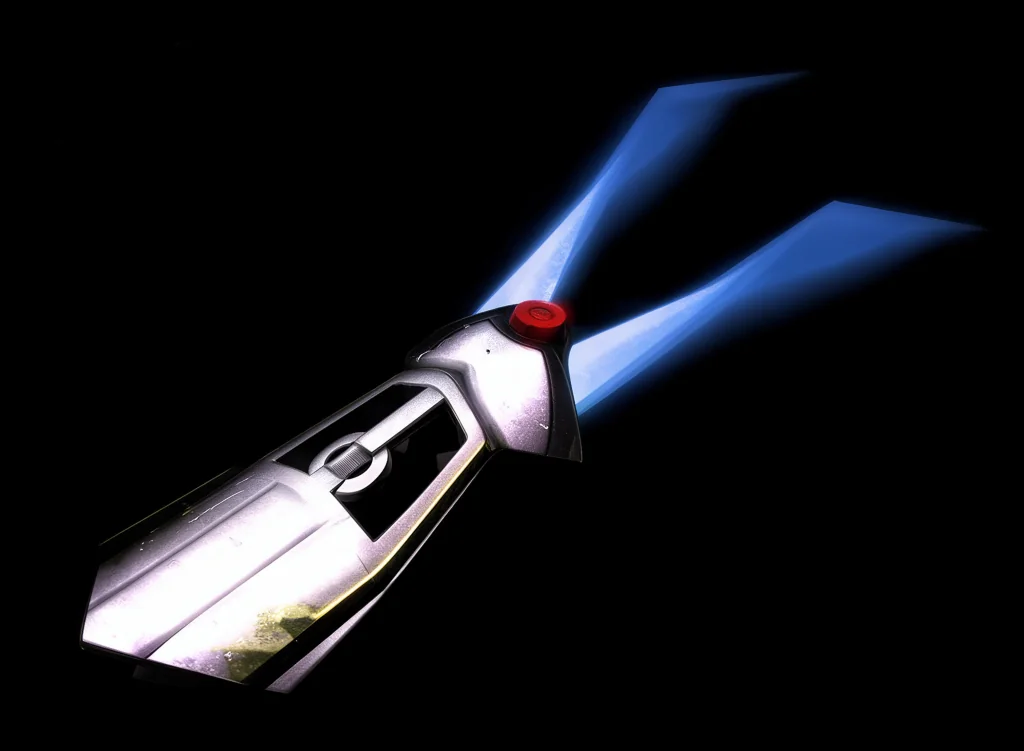
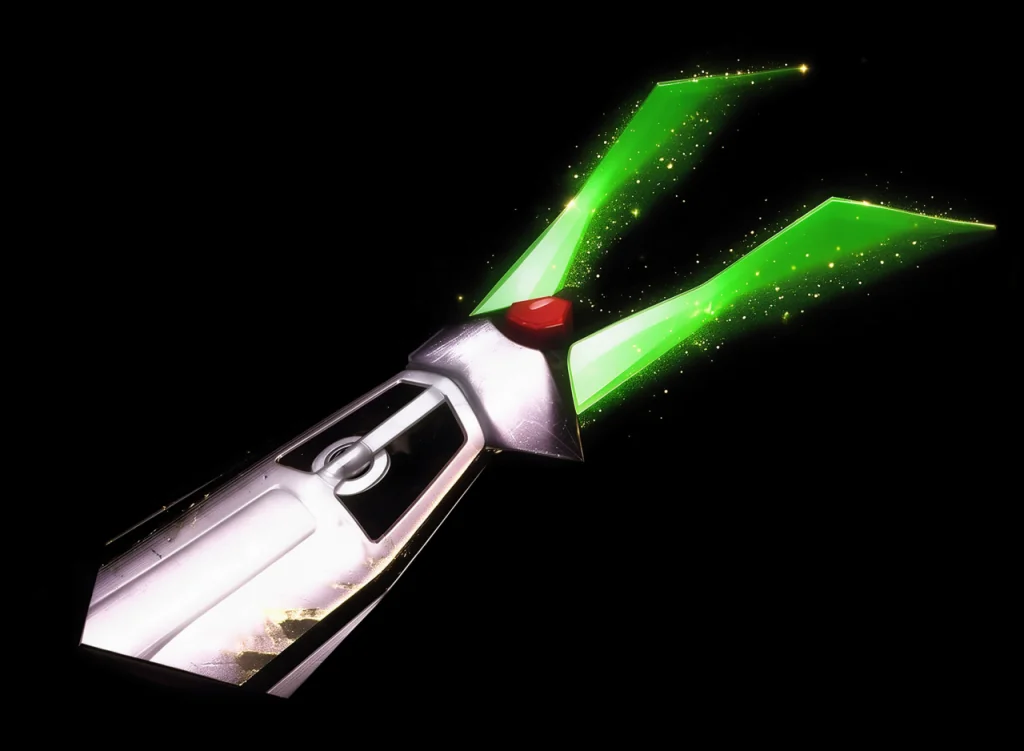
Update corrected wolf, Barble and Silence Claw artwork

diff --git a/docs/ITEM_CATALOG.md b/docs/ITEM_CATALOG.md
@@ -122,7 +122,7 @@ as separate models.
 
 ## Updating the data
 
-### HD detail images and naming (updated 2026-09-20)
+### HD detail images and naming (updated 2026-09-22)
 
 `content/item-catalog/hd-gallery.json` accounts for 607 source images: the original
 606-image 高清图库 collection with four images replaced by the supplied 替换.zip
@@ -215,6 +215,19 @@ The existing Wiki images and list thumbnails are unchanged.
 Local validation passed all 23 item tests, the production build and three HD
 browser checks. All 14 generated detail bindings match the reviewed manifest.
 
+On 2026-09-22 the maintainer supplied a replacement for Silence Claw and
+explicitly corrected the initial S-Rank Claw label. The green-photon image is
+bound to Silence Claw only; the ES Claw asset is unchanged. The supplied PNG is
+1280 × 938 and the published WebP is 1024 × 750 (30,492 bytes), encoded with
+`cwebp -q 85 -m 6 -resize 1024 0`. For full regeneration, remove
+`WEAPON/EP1+2/095.png` from the assembled working copy and place the supplied
+PNG at `User-provided corrections/2026-09-22/ed763d830550db0a304d405f18a03b50_720.png`.
+The manifest records its exact dimensions, byte count and SHA-256; the source
+inventory remains 607 files. Local validation passed 23 item tests and the
+production build (1,268 routes and 45 event fragments). The maintainer approved
+commit and push; deployment status is tracked separately by the Pages workflow.
+Seven focused item/monster HD browser checks also passed.
+
 ```sh
 node scripts/prepare_hd_gallery.mjs --check /path/to/高清图库
 node scripts/prepare_hd_gallery.mjs /path/to/高清图库 artifacts/hd-gallery
@@ -229,7 +242,7 @@ manifests or changed output bytes before writing any images, then removes retire
 WebPs from its owned destination directory. Regenerate the prepared gallery after
 changing the naming manifest; do not rename prepared files manually.
 They preserve aspect ratio at 1024-pixel width with lossy WebP quality 85,
-totaling 15,242,088 bytes. The detail frame displays them at up to 512 CSS pixels,
+totaling 15,362,496 bytes. The detail frame displays them at up to 512 CSS pixels,
 providing enough pixels for a 2× display at that size. This is optimized web
 artwork, not a lossless archival copy; enlarging it cannot retain the detail of
 the original roughly 5,000-pixel images. Downloaded originals are unchanged.

diff --git a/docs/MONSTER_CATALOG.md b/docs/MONSTER_CATALOG.md
@@ -343,3 +343,12 @@ did not re-evaluate tiers or change the in-game rotation.
 - 本地验收：怪物测试 **10 / 10**、怪物图鉴浏览器测试 **26 / 26** 通过；四个更新页面在 1440 / 390 px 下分别验证高清 / Wiki 切换、难度切换、图片链接及无横向溢出，并检查截图。171 个 WebP 全部可解码且与清单一致，四张原 PNG 的 SHA-256 核验通过。
 - 使用本机已有 Node 24.21.0 完成生产构建：1,268 条路由、45 个活动片段，JavaScript gzip 956,216 / 1,000,000 字节。默认 Node 22.18.0 低于当前 Angular CLI 要求，未改动项目依赖或系统 Node。
 - 维护者已验收并批准提交、推送至 `master`。本地验收与线上发布分开记录，部署结果以本次提交对应的 Pages 工作流为准。
+
+### 图片修正（2026-09-22）
+
+- 使用维护者提供的两张 1280 × 1280 PNG，替换 Barbarous Wolf 的森林、宇宙船普通外观，以及 Gobooma 的 Ultimate 外观 Barble；新版去除了原图腿后多余的细尾巴。两章节仍使用独立资源路径，旧 WebP 已移除。
+- 使用 `cwebp -q 85 -m 6 -resize 1024 0` 转为 1024 × 1024 WebP；清单同步原附件名、规范来源路径、尺寸、字节数、SHA-256 和详情绑定。来源路径位于 `User-provided corrections/2026-09-22/`，按 FOREST / SPACE SHIP 及现有中文名称组织；原 PNG 不随站点提交。
+- 当前仍为 171 张 WebP、134 个条目、268 个外观绑定，共 18,252,380 字节。
+- 本地怪物测试 10 / 10 通过，三张替换后的成品（含 Silence Claw）已逐张目视核对；生产构建通过，共 1,268 条路由、45 个活动片段。
+- 物品 / 怪物高清图相关浏览器测试 7 / 7 通过。
+- 维护者已验收并批准提交、推送至 master；线上部署结果以对应 Pages 工作流为准。
